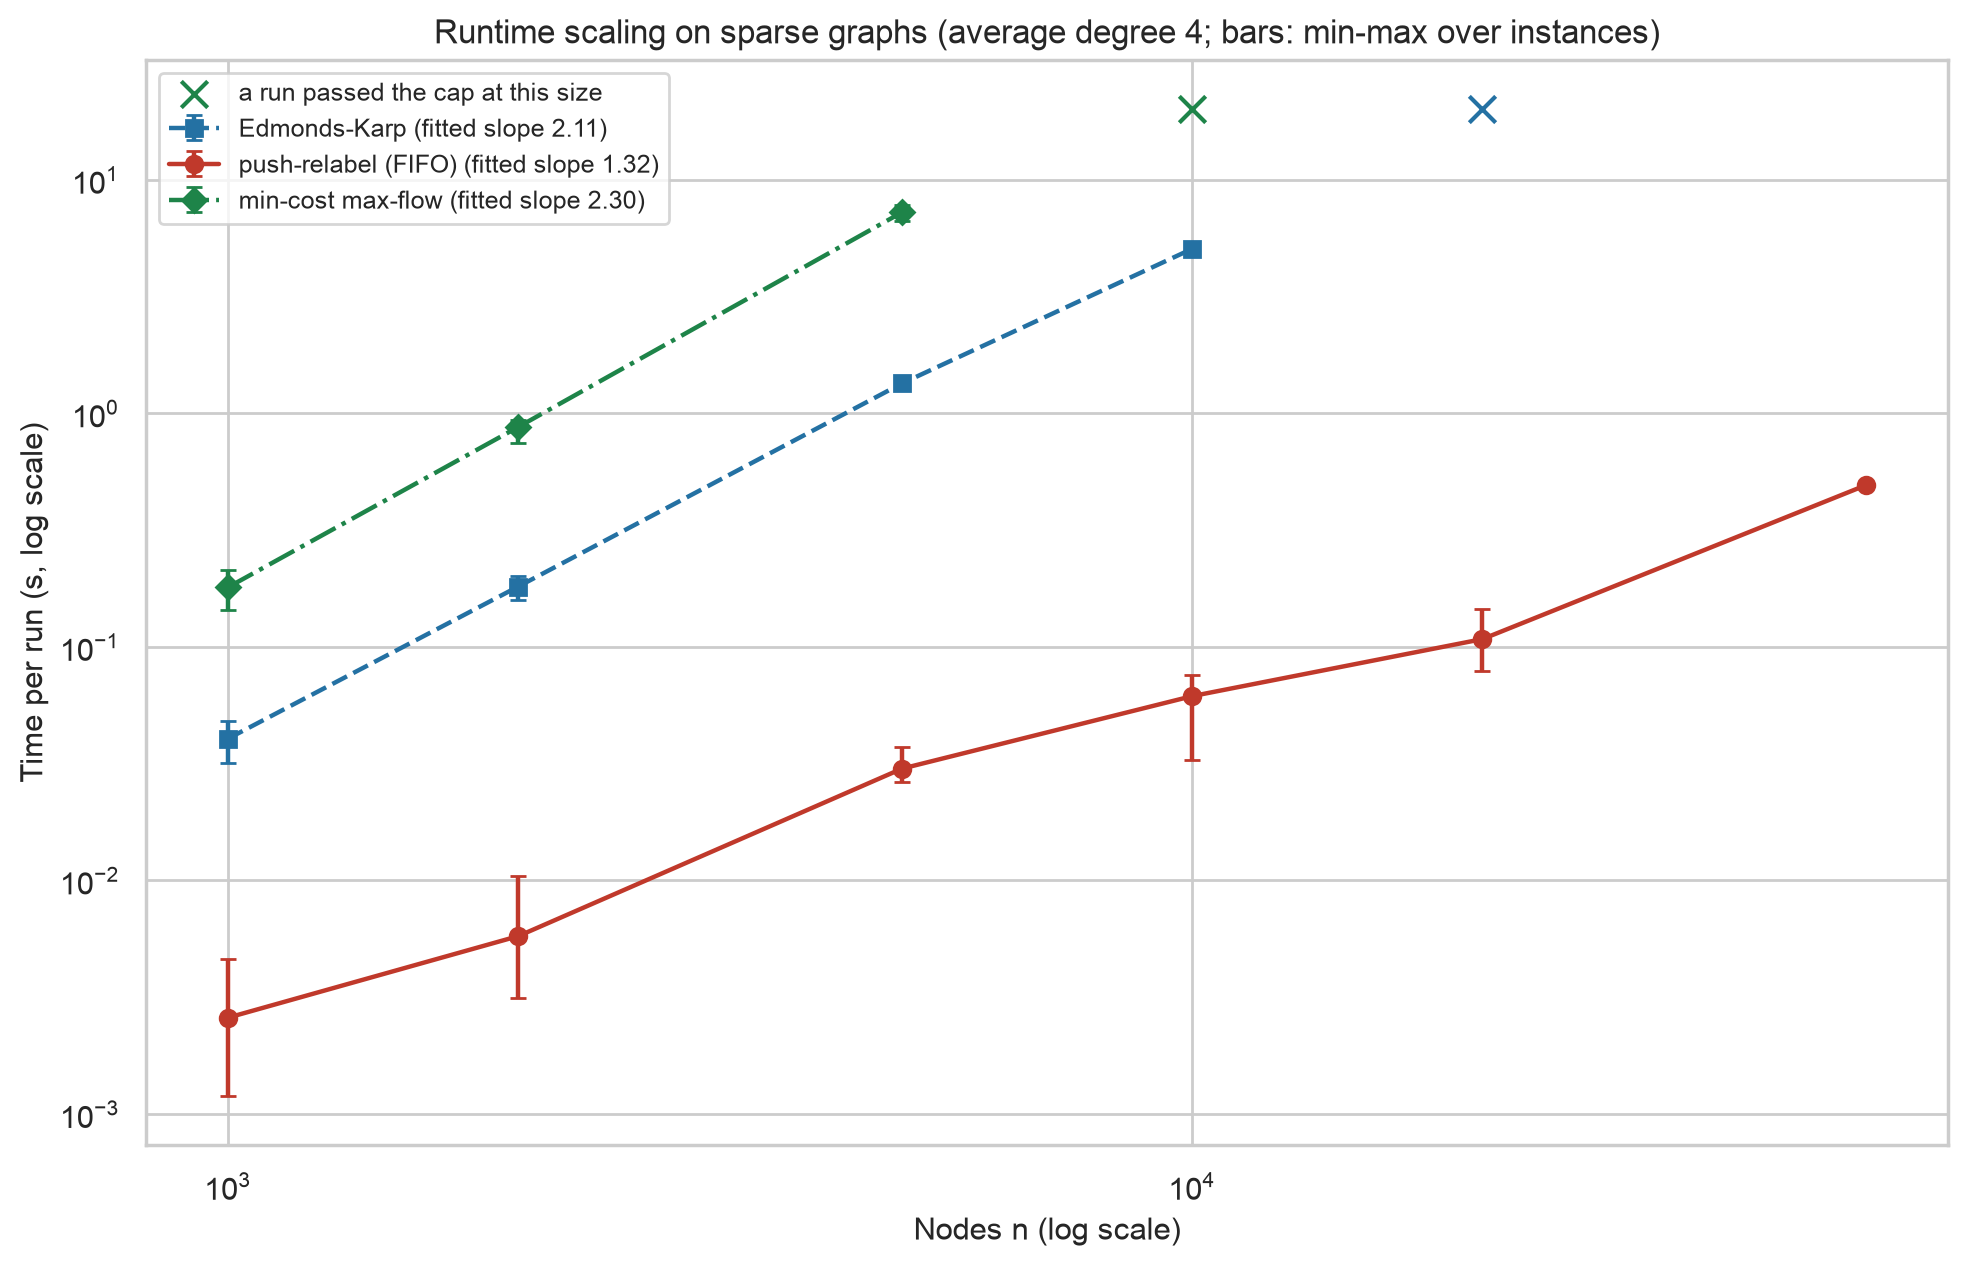
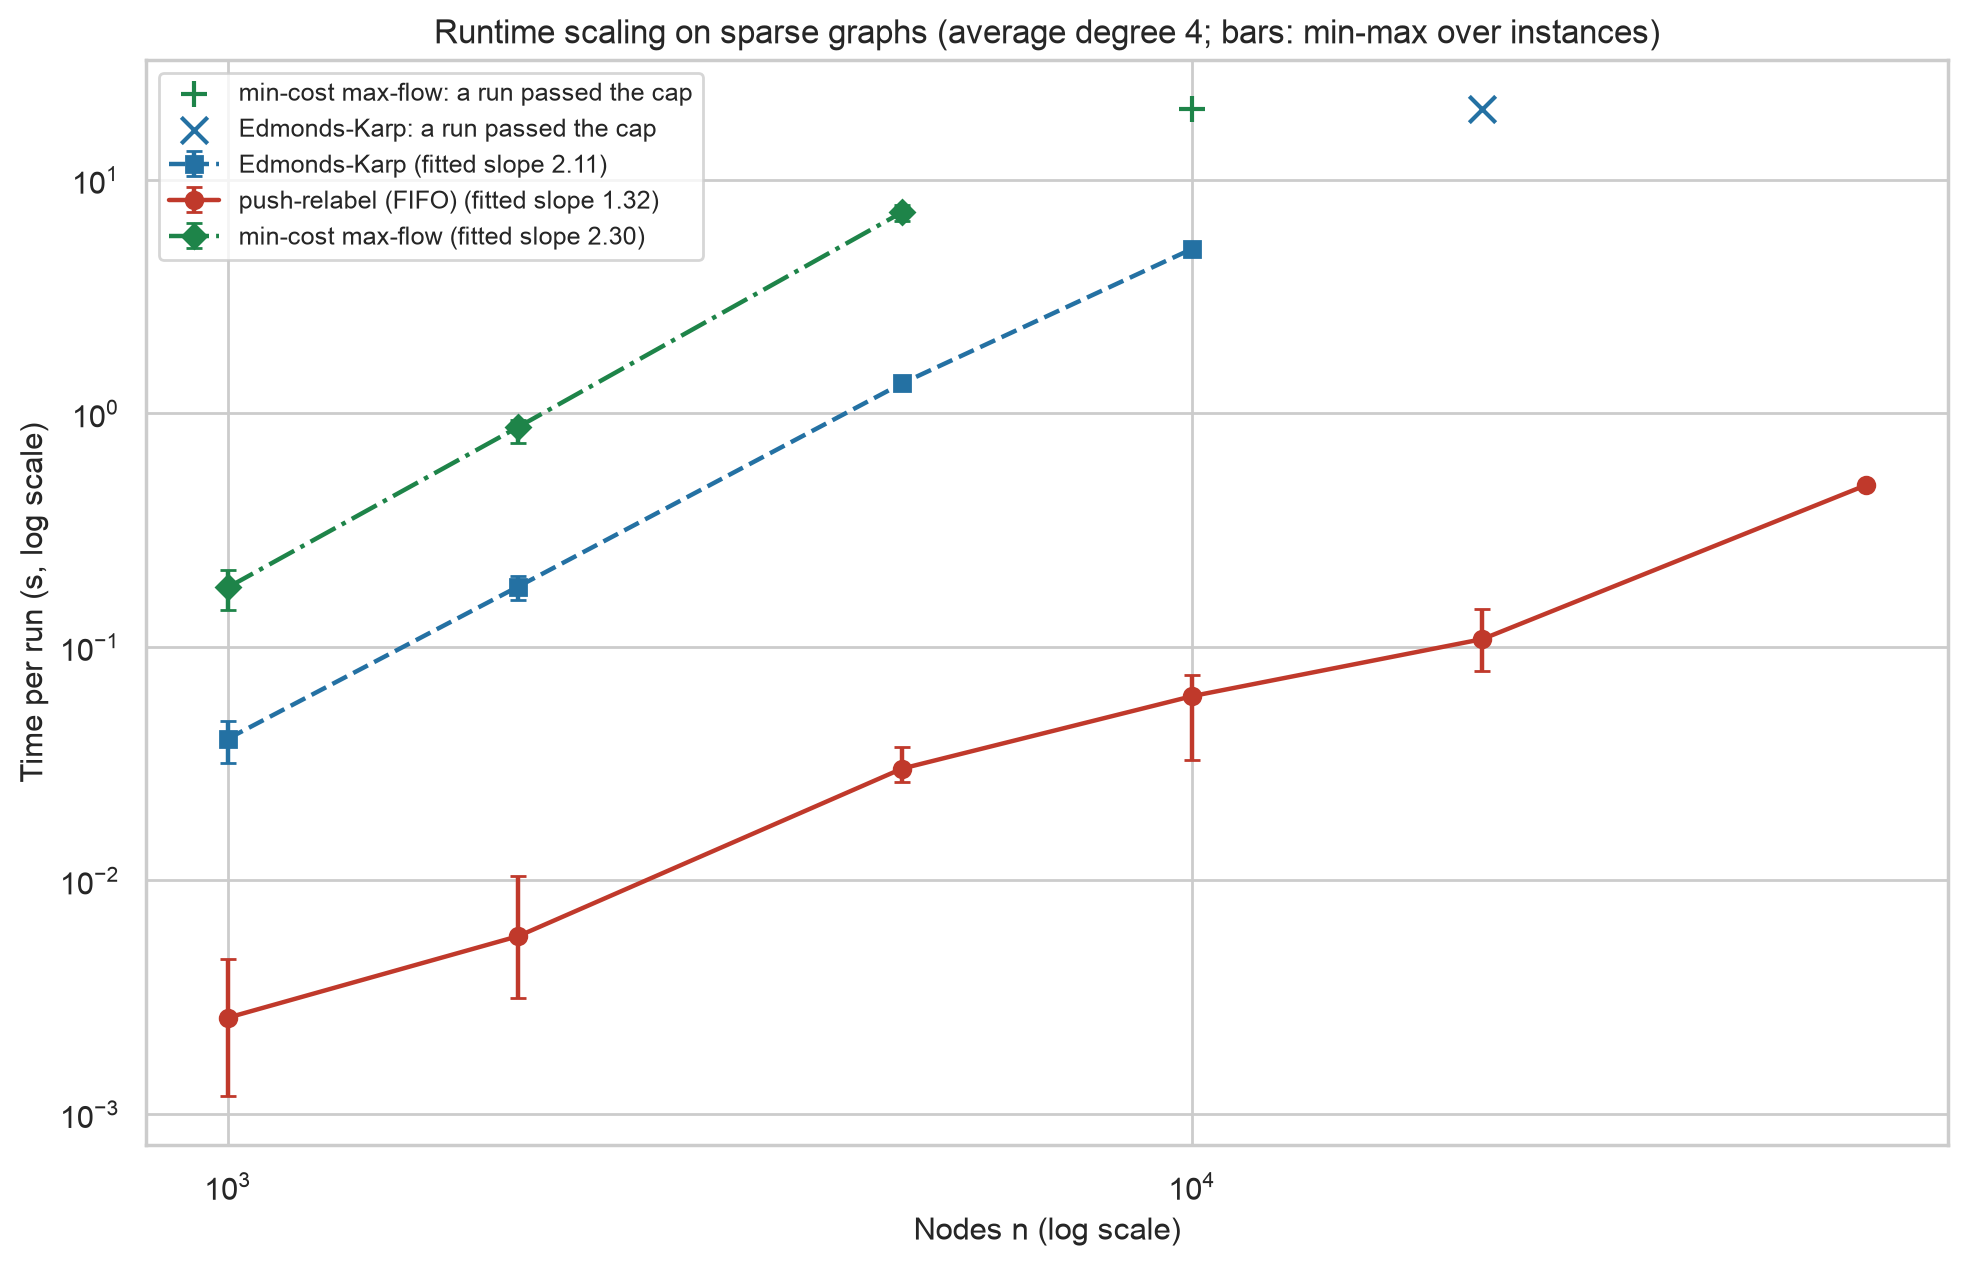
docs: correct week10 report claims after independent verification
Replaces explanations the data did not support, describes the control as
one hub edge per terminal and renames its label, states how application
results are checked, and gives the two cap markers different shapes.

Changed region(s): [[0.093, 0.0616, 0.372, 0.2156], [0.5889, 0.0616, 0.6199, 0.0924]]

diff --git a/benchmarks/week10_flow_benchmark.py b/benchmarks/week10_flow_benchmark.py
@@ -7,7 +7,7 @@ Run from the repository root with the project virtualenv active::
     python benchmarks/week10_flow_benchmark.py --smoke         # seconds, tiny sizes
     python benchmarks/week10_flow_benchmark.py --seed 7 --out /tmp/w10
 
-Five experiments on seeded random networks:
+Six experiments on seeded random networks:
 
 1. **Scaling** - Edmonds-Karp (EK), FIFO push-relabel (PR) and min-cost
    max-flow (MCF) on sparse graphs from n = 1,000 to 50,000.
@@ -23,10 +23,12 @@ Five experiments on seeded random networks:
    the max flow is limited by the few edges around them, which shows how much
    of the gap between the solvers comes from that choice.
 
-Every result is validated, and EK and PR must give the same value on every
-instance. Min-cost flow gets ``validators.validate_flow``; EK and PR get its
-four flow checks without the cost check, since a maximum flow on a costed
-graph need not be a cheapest one.
+Every flow result is validated, and EK and PR must give the same value on
+every timed instance. Min-cost flow gets ``validators.validate_flow``; EK and
+PR get its four flow checks without the cost check, since a maximum flow on a
+costed graph need not be a cheapest one. The applications keep their networks
+internal, so matching is checked against networkx and for disjoint input
+edges, and segmentation by identical masks and cuts from both solvers.
 
 **The 20-second rule.** A run that passes the cap is aborted by a timer and
 never reported as data. That solver is then skipped at larger sizes of the
@@ -439,9 +441,9 @@ def terminal_study(cfg: Config, master: int, records: List[dict], caps: List[dic
     for rep in range(cfg.reps):
         seed = derive_seed(master, "terminal_sensitivity", n, rep)
         net = random_network(n, 4, seed, cost_range=COST_RANGE, terminal_fraction=0.0)
-        solve_instance(records, caps, active, "terminal_sensitivity", "sparse_no_hubs", n, "uniform",
+        solve_instance(records, caps, active, "terminal_sensitivity", "sparse_one_hub", n, "uniform",
                        rep, seed, net, cfg, ("pr", "ek", "mcf"))
-    print(f"    n={n:<7} {summary_line(records, 'terminal_sensitivity', n, 'sparse_no_hubs')}", flush=True)
+    print(f"    n={n:<7} {summary_line(records, 'terminal_sensitivity', n, 'sparse_one_hub')}", flush=True)
 
 
 def application_figures(master: int, out: str) -> None:

diff --git a/src/utils/visualization.py b/src/utils/visualization.py
@@ -5223,13 +5223,12 @@ def plot_runtime_scaling(records: Sequence[Dict[str, Any]],
         slope = _w10_slope(ns, means)
         label = style["label"] + (f" (fitted slope {slope:.2f})" if slope is not None else "")
         _w10_line(ax, _w10_select(records, solver=solver), "time_s", style, label)
-    marked = False
     for cap in caps or []:
         if cap["solver"] in _W10_STYLE:
-            ax.scatter([cap["n"]], [cap["cap_s"]], marker="x", s=90, zorder=4,
-                       color=_W10_STYLE[cap["solver"]]["color"],
-                       label=None if marked else "a run passed the cap at this size")
-            marked = True
+            style = _W10_STYLE[cap["solver"]]
+            ax.scatter([cap["n"]], [cap["cap_s"]], s=90, zorder=4, color=style["color"],
+                       marker={"ek": "x", "mcf": "+"}.get(cap["solver"], "*"),
+                       label=f"{style['label']}: a run passed the cap")
     ax.set_xscale("log")
     ax.set_yscale("log")
     ax.set_xlabel("Nodes n (log scale)")

diff --git a/tools/week10_facts.py b/tools/week10_facts.py
@@ -143,10 +143,10 @@ def main() -> int:
         print(f"    rep 0 flow {flow:,.0f}; excess that returned to s {back:,.0f} ({back / start:.1%} of the start)")
 
     # ------------------------------------------------------------------
-    header("5c. Control: source and sink without hub edges")
+    header("5c. Control: one hub edge per terminal")
     tc = inst[inst.experiment == "terminal_sensitivity"]
     hub = sc[sc.n == tc.n.iloc[0]]
-    for label, frame in (("no hub edges", tc), ("5% hub edges", hub)):
+    for label, frame in (("one hub edge", tc), ("5% hub edges", hub)):
         parts = [f"  {label:<13} n={int(frame.n.iloc[0])} flow {frame.max_flow.mean():,.1f}"]
         times = {}
         for solver in ("ek", "pr", "mcf"):

diff --git a/analysis/week10_report.md b/analysis/week10_report.md
@@ -10,7 +10,7 @@
 
 ## 1. Executive Summary
 
-I built a flow network solver with Edmonds-Karp, FIFO push-relabel and min-cost max-flow, three applications (bipartite matching, image segmentation and scheduling), plots, animations and a command line. Every algorithm and application here works on one residual graph and differs only in what it reads from it. All 155 solver runs validated, and Edmonds-Karp and push-relabel agreed on all 57 instances they shared. Push-relabel solved 50,000-node sparse graphs in 0.492 s, while Edmonds-Karp passed the 20-second cap at n = 20,000 and min-cost flow at n = 10,000. Push-relabel's 82.24x lead at n = 10,000 fell to 3.19x on a control without hub edges, so that gap depends on the instance family.
+I built a flow network solver with Edmonds-Karp, FIFO push-relabel and min-cost max-flow, three applications (bipartite matching, image segmentation and scheduling), plots, animations and a command line. Every algorithm and application here works on one residual graph and differs only in what it reads from it. All 155 solver runs passed their checks, and Edmonds-Karp and push-relabel agreed on all 57 instances compared. Push-relabel solved 50,000-node sparse graphs in 0.492 s, while Edmonds-Karp passed the 20-second cap at n = 20,000 and min-cost flow at n = 10,000. Push-relabel's 82.24x lead at n = 10,000 fell to 3.19x on a control with one hub edge per terminal, so that gap depends on the instance family.
 
 ## 2. Theory Overview
 
@@ -18,19 +18,19 @@ A flow respects each edge's capacity and conserves flow at every node except the
 
 Optimality is read from the same structure. A flow is maximum exactly when the residual graph has no s-t path, and then the nodes reachable from s form a cut whose capacity equals the flow (CLRS Ch. 24; Amakobe, 2025, Ch. 10). A maximum flow has minimum cost exactly when the residual graph has no negative-cost cycle.
 
-Edmonds-Karp reads the shortest s-t path by BFS, in O(VE²) time (Edmonds & Karp, 1972). Push-relabel reads only a node's height and excess and never a whole path: it pushes excess downhill and raises a stuck node, in O(V³) for the FIFO variant (Goldberg & Tarjan, 1988). Its gap heuristic and periodic global relabel reset heights by BFS on the residual graph. Min-cost flow reads the graph with costs, taking the cheapest path each round, and its Johnson potentials keep reduced costs non-negative so Dijkstra applies.
+Edmonds-Karp reads the shortest s-t path by BFS, in O(VE²) time (Edmonds & Karp, 1972). Push-relabel reads only a node's height and excess and never a whole path: it pushes excess downhill and raises a stuck node, in O(V³) for the FIFO variant (Goldberg & Tarjan, 1988). Its gap heuristic lifts nodes that can no longer reach t, and its periodic global relabel resets heights by BFS on the residual graph. Min-cost flow reads the graph with costs, taking the cheapest path each round, and its Johnson potentials keep reduced costs non-negative so Dijkstra applies.
 
 ## 3. Methodology
 
-**Layout.** `src/flow_network_solver/` is the instructions' `FlowNetworkSolver/`, under `src/` because the repository holds every week's project, and this report is the instructions' `ch9_report.md`. Outputs are in `benchmarks/results/week10/`. networkx is used only as a test cross-check and for drawing.
+**Layout.** `src/flow_network_solver/` is the instructions' `FlowNetworkSolver/`, under `src/` because the repository holds every week's project, and this report is the instructions' `ch9_report.md`. Outputs are in `benchmarks/results/week10/`. networkx is used only as a cross-check, in the tests and the benchmark's matching study, and for drawing.
 
-**Test conditions.** Apple M2 Max, 64 GB RAM, macOS 14.5 (arm64), CPython 3.12.4. Solvers time themselves with `time.perf_counter`. Peak memory comes from `tracemalloc` in separate, untimed runs, with the network built before tracing starts, so it is solver working memory. The full benchmark took 243.3 s.
+**Test conditions.** Apple M2 Max, 64 GB RAM, macOS 14.5 (arm64), CPython 3.12.4. Solvers time themselves with `time.perf_counter`; matching and segmentation times cover the whole application call, including building the network. Peak memory comes from `tracemalloc` in separate, untimed runs, with the network built before tracing starts, so it is solver working memory.
 
-**Data generation.** Random networks have node 0 as source, node n - 1 as sink, integer capacities 1 to 100, costs 1 to 20 and a backbone s-t path. The source and sink each connect to 5% of the nodes, as a super source and super sink would; otherwise a single random node's few edges limit the flow. A control at n = 10,000 removes this. Experiments: sparse scaling (average degree 4, n = 1,000 to 50,000), sparse against dense (degree n/4, n = 200 to 1,000), three capacity distributions at n = 5,000, memory at n = 1,000 to 10,000, matching at 50 to 1,000 per side, and segmentation of a seeded disc image at 32x32 and 64x64.
+**Data generation.** Random networks have node 0 as source, node n - 1 as sink, integer capacities 1 to 100, costs 1 to 20 and a backbone s-t path. The source and sink each connect to 5% of the nodes, as a super source and super sink would; otherwise a single random node's few edges limit the flow. A control at n = 10,000 cuts this to one hub edge per terminal. Experiments: sparse scaling (average degree 4, n = 1,000 to 50,000), sparse against dense (degree n/4, n = 200 to 1,000), three capacity distributions at n = 5,000, memory at n = 1,000 to 10,000, matching at 50 to 1,000 per side, and segmentation of a seeded disc image at 32x32 and 64x64.
 
 **Seeds and repeats.** The master seed is 42 and every instance comes from `derive_seed(42, experiment, ..., n, rep)`, giving 66 distinct seeds. Each point has 3 instances; memory has one.
 
-**Metrics and validation.** Time, augmenting paths, pushes, relabels and peak memory. Every result passes capacity, conservation, residual and flow-value checks. Min-cost flow also passes the negative-cycle check, which does not apply to the others: a maximum flow on a costed graph need not be the cheapest.
+**Metrics and validation.** Time, augmenting paths, pushes, relabels and peak memory. Every run on a generated network passes capacity, conservation, residual and flow-value checks. Min-cost flow also passes the negative-cycle check, which does not apply to the others: a maximum flow on a costed graph need not be the cheapest. Applications keep their networks internal, so matching is checked against networkx's maximum matching and for input edges with no node reused, and segmentation by identical masks and cut values from both solvers.
 
 **Size caps.** A timer aborts any run past 20 s (30 s under `tracemalloc`), the run is not reported, and that solver skips larger sizes. Four caps fired: Edmonds-Karp at n = 20,000 sparse, and min-cost flow at n = 10,000 sparse, n = 1,000 dense and n = 10,000 in the memory study. Nothing is projected.
 
@@ -40,7 +40,7 @@ Edmonds-Karp reads the shortest s-t path by BFS, in O(VE²) time (Edmonds & Karp
 |---|---|---|---|---|
 | Edmonds-Karp | shortest s-t path | O(VE²) | 2.11 | 10,000 |
 | Push-relabel | local height and excess | O(V³) | 1.32 | 50,000 |
-| Min-cost flow | cheapest s-t path | O(F · E log V) for flow F | 2.30 | 5,000 |
+| Min-cost flow | cheapest s-t path | O(VE + F (V + E log V)) for flow F | 2.30 | 5,000 |
 
 ![runtime scaling](https://raw.githubusercontent.com/RDeibel2025/CTX-Advanced-Algorithms/main/benchmarks/results/week10/runtime_scaling.png)
 
@@ -64,27 +64,27 @@ Push-relabel needed only 5.53 operations per node and 3.0 global relabels at n =
 
 ![matching](https://raw.githubusercontent.com/RDeibel2025/CTX-Advanced-Algorithms/main/benchmarks/results/week10/matching.png)
 
-## 6. Results
+## 6. Results and Discussion
 
-**The gap depends on the instance family.** Edmonds-Karp's time relative to push-relabel rose from 15.65x at n = 1,000 to 82.24x at n = 10,000, and min-cost flow's reached 240.92x at n = 5,000. In the control without hub edges, the flow fell from 23,783.7 to 330.0, Edmonds-Karp needed 32.0 paths instead of 1,815.3, and its time relative to push-relabel fell to 3.19x. Hub edges create many short augmenting paths, which costs Edmonds-Karp a BFS each and costs push-relabel little. These graphs are easy for push-relabel, so these ratios are not a general result.
+**The gap depends on the instance family.** Edmonds-Karp's time relative to push-relabel rose from 15.65x at n = 1,000 to 82.24x at n = 10,000, and min-cost flow's reached 240.92x at n = 5,000. In the control with one hub edge per terminal, the flow fell from 23,783.7 to 330.0, Edmonds-Karp needed 32.0 paths instead of 1,815.3, and its time relative to push-relabel fell to 3.19x. Hub edges create many more augmenting paths, each of which costs Edmonds-Karp a BFS, and they cost push-relabel far less. These graphs are easy for push-relabel, so these ratios are not a general result.
 
 **Density.** At n = 1,000, moving from 4,000 to 250,000 edges took Edmonds-Karp from 0.0427 s to 3.7752 s and push-relabel from 0.0042 s to 0.0764 s. Min-cost flow took 7.545 s at n = 500 dense and hit the cap at n = 1,000.
 
 ![sparse against dense](https://raw.githubusercontent.com/RDeibel2025/CTX-Advanced-Algorithms/main/benchmarks/results/week10/sparse_vs_dense.png)
 
-**Capacities.** With unit capacities Edmonds-Karp's 248.0 paths equal the flow of 248.0, since each path carries one unit. Exponential capacities took more paths than uniform (1,129.7 against 910.0) for a smaller flow, because smaller capacities give each path a smaller bottleneck. Push-relabel used 7,420, 19,702 and 20,573 operations for unit, exponential and uniform capacities.
+**Capacities.** With unit capacities Edmonds-Karp's 248.0 paths equal the flow of 248.0, since each path carries one unit. Exponential capacities took more paths than uniform (1,129.7 against 910.0) for a smaller flow, so each path carried less on average. Push-relabel used 7,420, 19,702 and 20,573 operations for unit, exponential and uniform capacities.
 
-**Convergence.** At n = 50,000, excess started at 127,669 units on 3,834 peak active nodes, halved within 8% of the operations and reached a tenth within 29%. The slow tail matches the excess that cannot reach t: 11,440 units (9.0%) had to walk back to s.
+**Convergence.** At n = 50,000, excess started at 127,669 units, active nodes peaked at 3,834, and excess halved within 8% of the operations and reached a tenth within 30%. In all, 11,440 units (9.0%) could not reach t and went back to s.
 
 ![push-relabel convergence](https://raw.githubusercontent.com/RDeibel2025/CTX-Advanced-Algorithms/main/benchmarks/results/week10/pr_convergence.png)
 
-**Memory.** Push-relabel's extra arrays cost memory: 2,941 KiB against Edmonds-Karp's 1,008 KiB at n = 10,000 (2.92x).
+**Memory.** Push-relabel used more memory: 2,941 KiB against Edmonds-Karp's 1,008 KiB at n = 10,000 (2.92x).
 
 ![memory use](https://raw.githubusercontent.com/RDeibel2025/CTX-Advanced-Algorithms/main/benchmarks/results/week10/memory_use.png)
 
 ## 7. Conclusion
 
-One residual graph supported three solvers and three applications, and each read its answer from that graph. For maximum flow alone, push-relabel was the better choice on every family tested, at 2.92x the working memory. Costs change the decision: min-cost flow took 7.2484 s at n = 5,000 against push-relabel's 0.0301 s, and that time is what it takes to get the cheapest of the maximum flows instead of any one of them.
+One residual graph supported three solvers and three applications, and each read its answer from that graph. For maximum flow alone, push-relabel was the better choice on every family tested, at 2.92x the working memory. Costs change the decision: min-cost flow took 7.2484 s at n = 5,000 against push-relabel's 0.0301 s, and that time is what this solver pays to get the cheapest of the maximum flows instead of any one of them.
 
 ## References
 
@@ -103,7 +103,7 @@ One residual graph supported three solvers and three applications, and each read
 
 Claude (Claude Code) drafted the code, tests and this report's first draft from a
 specification I wrote from the instructions and required reading, including the
-hand-checked values the tests assert. Every measurement comes from running the benchmark on
-my machine, and every number in this report is printed from the CSVs by
+cross-checked values the tests assert. Every measurement comes from running the benchmark on
+my machine, and every result in this report is printed from the CSVs by
 [`tools/week10_facts.py`](https://github.com/RDeibel2025/CTX-Advanced-Algorithms/blob/main/tools/week10_facts.py).
 Full disclosure: [`docs/AI_USE.md`](https://github.com/RDeibel2025/CTX-Advanced-Algorithms/blob/main/docs/AI_USE.md).
